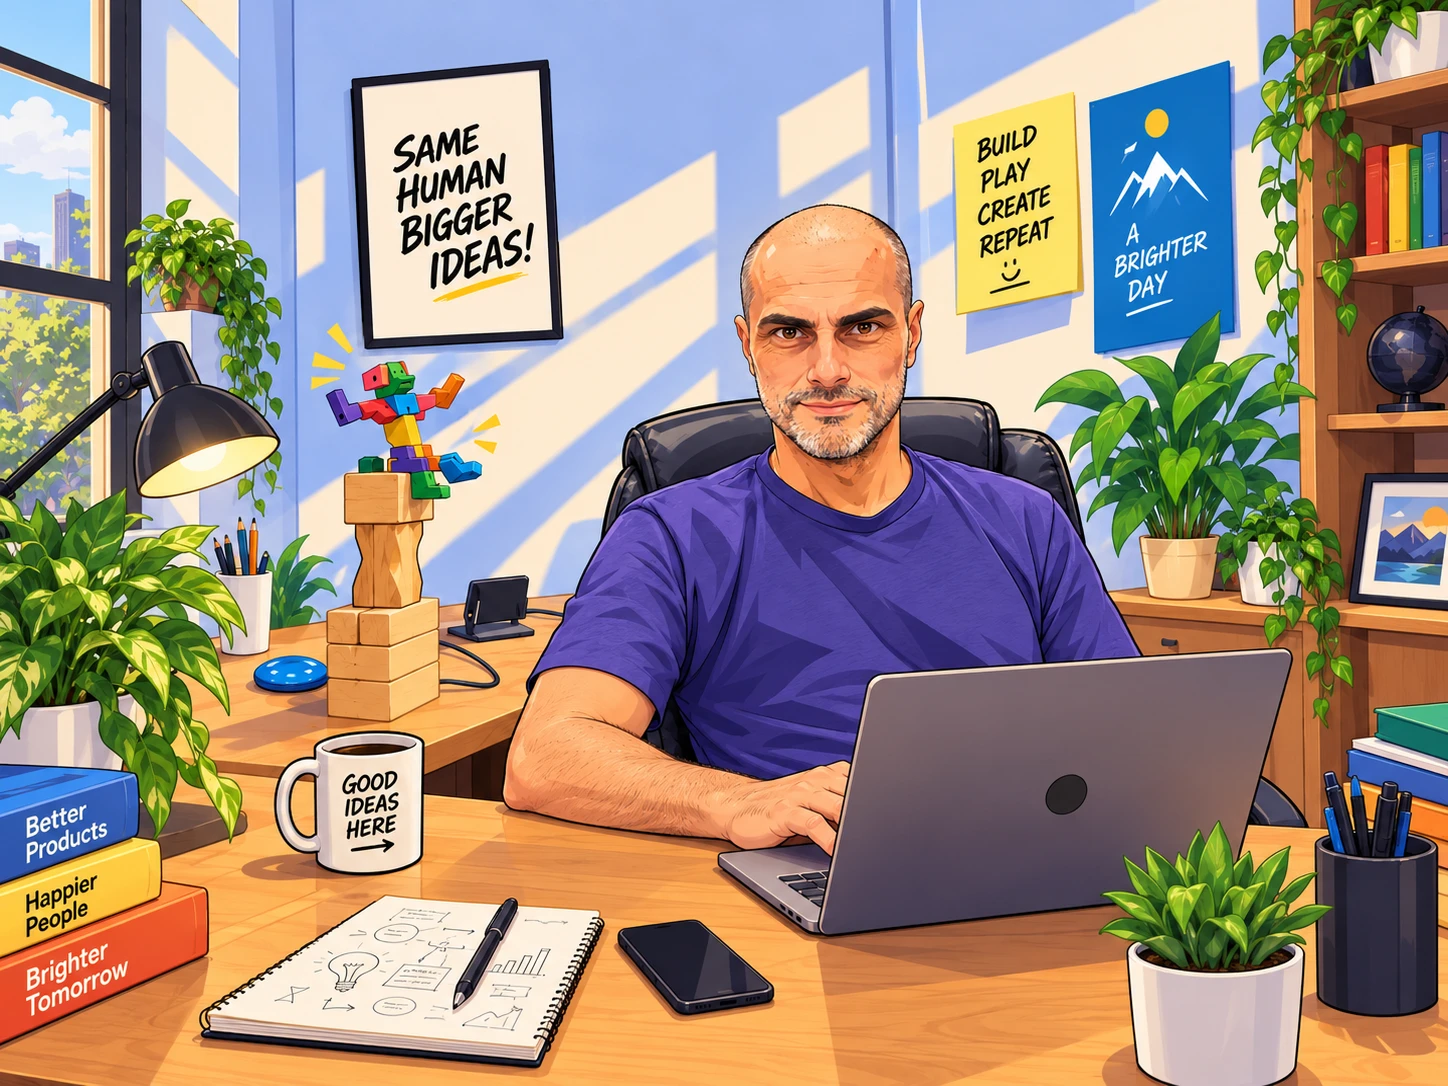
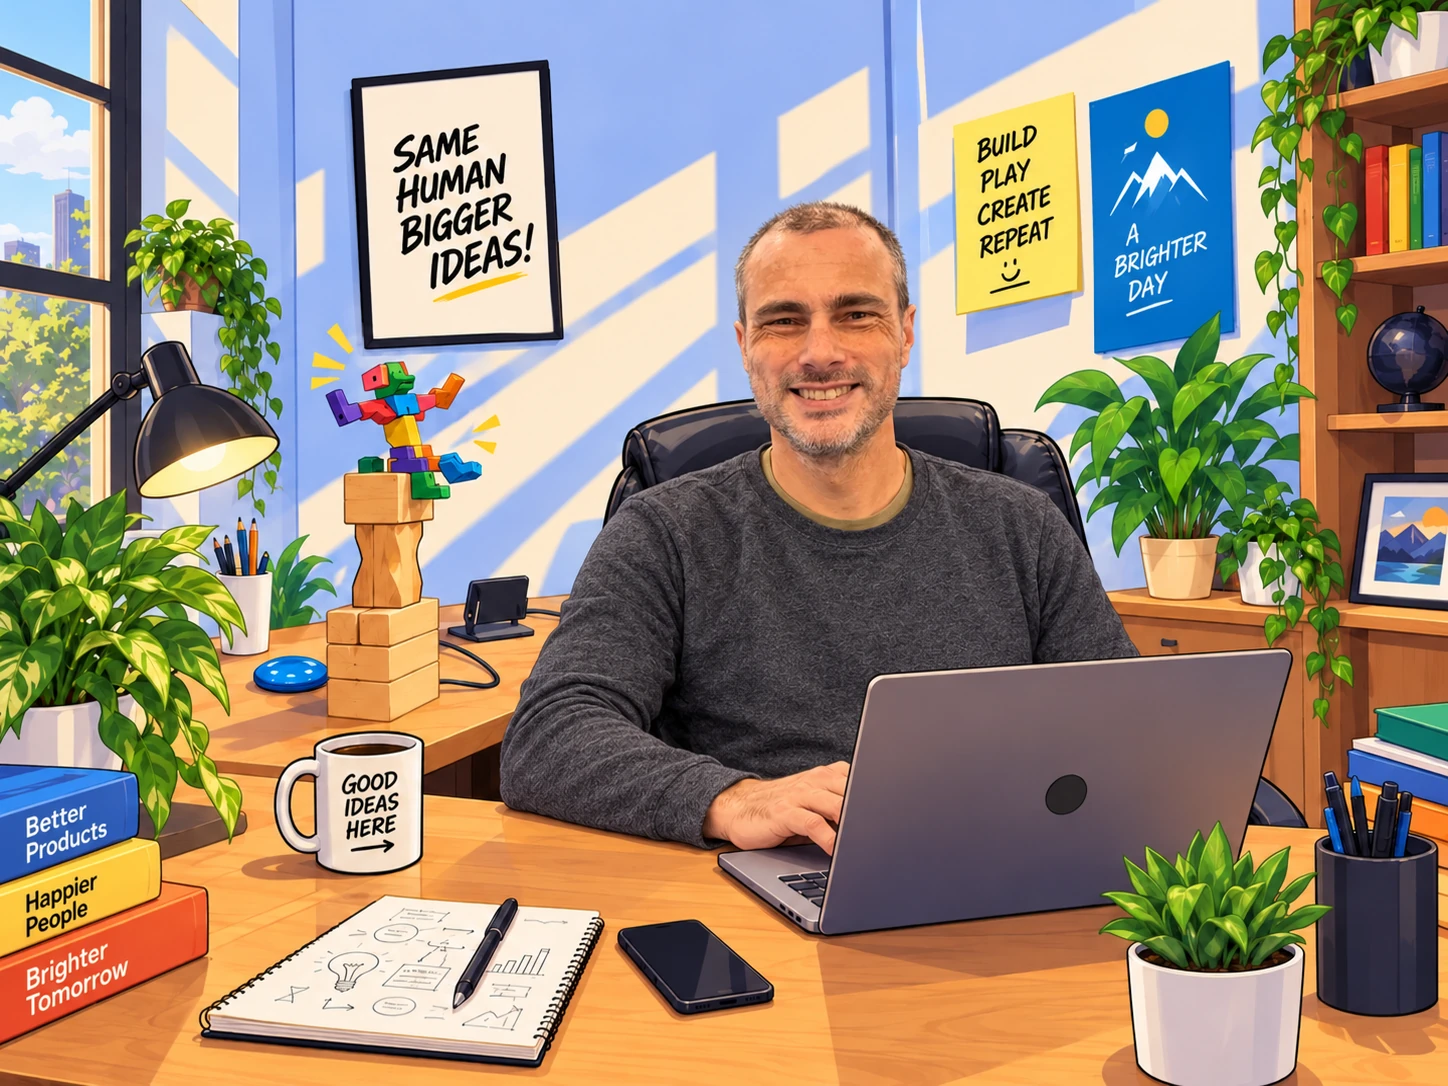
fix image

diff --git a/index.html b/index.html
@@ -15,12 +15,12 @@
   <meta property="og:image:type" content="image/webp">
   <meta property="og:image:width" content="1448">
   <meta property="og:image:height" content="1086">
-  <meta property="og:image:alt" content="Illustrated portrait of Andrew Arrow at his laptop in a sunlit workspace">
+  <meta property="og:image:alt" content="Andrew Arrow at his laptop in an illustrated sunlit workspace">
   <meta name="twitter:card" content="summary_large_image">
   <meta name="twitter:title" content="Vibe Coding Coaching &amp; AI | Andrew Arrow">
   <meta name="twitter:description" content="Learn to build with AI. Andrew Arrow offers practical vibe coding coaching, beginner lessons, and a step-by-step Reddit-like app course with React, Go, and PostgreSQL.">
   <meta name="twitter:image" content="https://andrewarrow.dev/assets/images/andrew-hero-wide.webp">
-  <meta name="twitter:image:alt" content="Illustrated portrait of Andrew Arrow at his laptop in a sunlit workspace">
+  <meta name="twitter:image:alt" content="Andrew Arrow at his laptop in an illustrated sunlit workspace">
   <meta name="theme-color" content="#03101b">
   <link rel="stylesheet" href="/assets/css/home.css">
   <link rel="icon" href="https://i.imgur.com/KKoEmhn.png" type="image/png">
@@ -41,7 +41,7 @@
   </header>
   <main id="main" tabindex="-1">
     <section class="hero" aria-labelledby="hero-title">
-      <img class="arena" src="/assets/images/andrew-hero-wide.webp" alt="Illustrated portrait of Andrew Arrow at his laptop in a sunlit workspace" width="1448" height="1086" fetchpriority="high">
+      <img class="arena" src="/assets/images/andrew-hero-wide.webp" alt="Andrew Arrow at his laptop in an illustrated sunlit workspace" width="1448" height="1086" fetchpriority="high">
       <div class="hero-copy">
         <p class="eyebrow">ANDREW ARROW</p>
         <h1 id="hero-title">Vibe coding.<br>Build with AI.</h1>

diff --git a/lesson-00001/index.html b/lesson-00001/index.html
@@ -15,12 +15,12 @@
   <meta property="og:image:type" content="image/webp">
   <meta property="og:image:width" content="1448">
   <meta property="og:image:height" content="1086">
-  <meta property="og:image:alt" content="Illustrated portrait of Andrew Arrow at his laptop in a sunlit workspace">
+  <meta property="og:image:alt" content="Andrew Arrow at his laptop in an illustrated sunlit workspace">
   <meta name="twitter:card" content="summary_large_image">
   <meta name="twitter:title" content="Vibe Coding Coaching &amp; AI | Andrew Arrow">
   <meta name="twitter:description" content="Learn to build with AI. Andrew Arrow offers practical vibe coding coaching, beginner lessons, and a step-by-step Reddit-like app course with React, Go, and PostgreSQL.">
   <meta name="twitter:image" content="https://andrewarrow.dev/assets/images/andrew-hero-wide.webp">
-  <meta name="twitter:image:alt" content="Illustrated portrait of Andrew Arrow at his laptop in a sunlit workspace">
+  <meta name="twitter:image:alt" content="Andrew Arrow at his laptop in an illustrated sunlit workspace">
   <meta name="theme-color" content="#03101b">
   <link rel="stylesheet" href="/assets/css/home.css">
   <link rel="stylesheet" href="/assets/css/layout.css">

diff --git a/lesson-00002/index.html b/lesson-00002/index.html
@@ -15,12 +15,12 @@
   <meta property="og:image:type" content="image/webp">
   <meta property="og:image:width" content="1448">
   <meta property="og:image:height" content="1086">
-  <meta property="og:image:alt" content="Illustrated portrait of Andrew Arrow at his laptop in a sunlit workspace">
+  <meta property="og:image:alt" content="Andrew Arrow at his laptop in an illustrated sunlit workspace">
   <meta name="twitter:card" content="summary_large_image">
   <meta name="twitter:title" content="Vibe Coding Coaching &amp; AI | Andrew Arrow">
   <meta name="twitter:description" content="Learn to build with AI. Andrew Arrow offers practical vibe coding coaching, beginner lessons, and a step-by-step Reddit-like app course with React, Go, and PostgreSQL.">
   <meta name="twitter:image" content="https://andrewarrow.dev/assets/images/andrew-hero-wide.webp">
-  <meta name="twitter:image:alt" content="Illustrated portrait of Andrew Arrow at his laptop in a sunlit workspace">
+  <meta name="twitter:image:alt" content="Andrew Arrow at his laptop in an illustrated sunlit workspace">
   <meta name="theme-color" content="#03101b">
   <link rel="stylesheet" href="/assets/css/home.css">
   <link rel="stylesheet" href="/assets/css/layout.css">

diff --git a/lesson-00003/index.html b/lesson-00003/index.html
@@ -15,12 +15,12 @@
   <meta property="og:image:type" content="image/webp">
   <meta property="og:image:width" content="1448">
   <meta property="og:image:height" content="1086">
-  <meta property="og:image:alt" content="Illustrated portrait of Andrew Arrow at his laptop in a sunlit workspace">
+  <meta property="og:image:alt" content="Andrew Arrow at his laptop in an illustrated sunlit workspace">
   <meta name="twitter:card" content="summary_large_image">
   <meta name="twitter:title" content="Vibe Coding Coaching &amp; AI | Andrew Arrow">
   <meta name="twitter:description" content="Learn to build with AI. Andrew Arrow offers practical vibe coding coaching, beginner lessons, and a step-by-step Reddit-like app course with React, Go, and PostgreSQL.">
   <meta name="twitter:image" content="https://andrewarrow.dev/assets/images/andrew-hero-wide.webp">
-  <meta name="twitter:image:alt" content="Illustrated portrait of Andrew Arrow at his laptop in a sunlit workspace">
+  <meta name="twitter:image:alt" content="Andrew Arrow at his laptop in an illustrated sunlit workspace">
   <meta name="theme-color" content="#03101b">
   <link rel="stylesheet" href="/assets/css/home.css">
   <link rel="stylesheet" href="/assets/css/layout.css">

diff --git a/lesson-00004/index.html b/lesson-00004/index.html
@@ -15,12 +15,12 @@
   <meta property="og:image:type" content="image/webp">
   <meta property="og:image:width" content="1448">
   <meta property="og:image:height" content="1086">
-  <meta property="og:image:alt" content="Illustrated portrait of Andrew Arrow at his laptop in a sunlit workspace">
+  <meta property="og:image:alt" content="Andrew Arrow at his laptop in an illustrated sunlit workspace">
   <meta name="twitter:card" content="summary_large_image">
   <meta name="twitter:title" content="Vibe Coding Coaching &amp; AI | Andrew Arrow">
   <meta name="twitter:description" content="Learn to build with AI. Andrew Arrow offers practical vibe coding coaching, beginner lessons, and a step-by-step Reddit-like app course with React, Go, and PostgreSQL.">
   <meta name="twitter:image" content="https://andrewarrow.dev/assets/images/andrew-hero-wide.webp">
-  <meta name="twitter:image:alt" content="Illustrated portrait of Andrew Arrow at his laptop in a sunlit workspace">
+  <meta name="twitter:image:alt" content="Andrew Arrow at his laptop in an illustrated sunlit workspace">
   <meta name="theme-color" content="#03101b">
   <link rel="stylesheet" href="/assets/css/home.css">
   <link rel="stylesheet" href="/assets/css/layout.css">

diff --git a/start/index.html b/start/index.html
@@ -15,12 +15,12 @@
   <meta property="og:image:type" content="image/webp">
   <meta property="og:image:width" content="1448">
   <meta property="og:image:height" content="1086">
-  <meta property="og:image:alt" content="Illustrated portrait of Andrew Arrow at his laptop in a sunlit workspace">
+  <meta property="og:image:alt" content="Andrew Arrow at his laptop in an illustrated sunlit workspace">
   <meta name="twitter:card" content="summary_large_image">
   <meta name="twitter:title" content="Vibe Coding Coaching &amp; AI | Andrew Arrow">
   <meta name="twitter:description" content="Learn to build with AI. Andrew Arrow offers practical vibe coding coaching, beginner lessons, and a step-by-step Reddit-like app course with React, Go, and PostgreSQL.">
   <meta name="twitter:image" content="https://andrewarrow.dev/assets/images/andrew-hero-wide.webp">
-  <meta name="twitter:image:alt" content="Illustrated portrait of Andrew Arrow at his laptop in a sunlit workspace">
+  <meta name="twitter:image:alt" content="Andrew Arrow at his laptop in an illustrated sunlit workspace">
   <meta name="theme-color" content="#03101b">
   <link rel="stylesheet" href="/assets/css/home.css">
   <link rel="stylesheet" href="/assets/css/layout.css">

diff --git a/build-reddit/index.html b/build-reddit/index.html
@@ -27,7 +27,7 @@
   </header>
   <main id="main" tabindex="-1">
     <section class="hero" id="top" aria-labelledby="hero-title">
-      <img class="arena" src="/assets/images/andrew-hero-wide.webp" alt="Illustrated portrait of Andrew Arrow at his laptop in a sunlit workspace" width="1448" height="1086" fetchpriority="high">
+      <img class="arena" src="/assets/images/andrew-hero-wide.webp" alt="Andrew Arrow at his laptop in an illustrated sunlit workspace" width="1448" height="1086" fetchpriority="high">
       <div class="hero-copy">
         <p class="eyebrow">BUILD REDDIT SLOWLY</p>
         <h1 id="hero-title">Build Reddit.<br>Start small.</h1>
